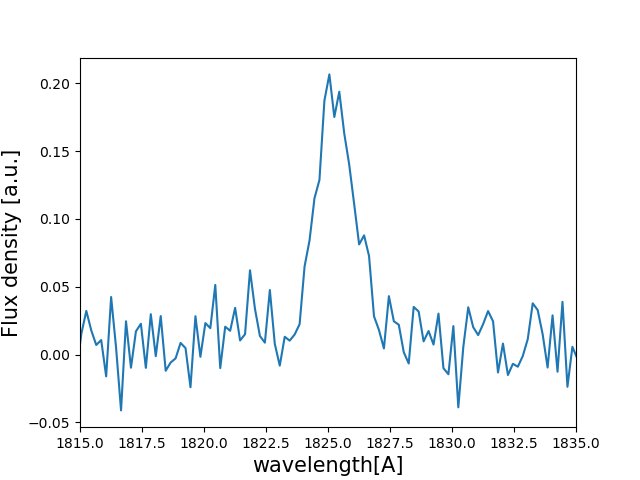
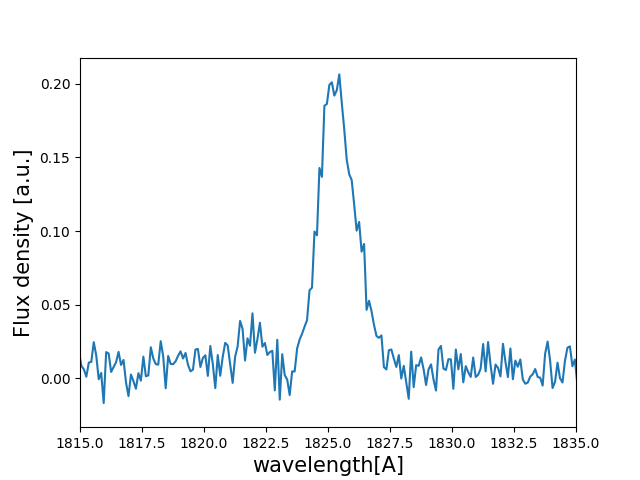
docs

diff --git a/docs/Tutorial_mock.rst b/docs/Tutorial_mock.rst
@@ -10,7 +10,7 @@ Let's start by loading `zELDA` and setting the location of the LyaRT grids:
 
 .. code:: python
 
-          import Lya_zelda as Lya
+          import Lya_zelda_II as Lya
 
           your_grids_location = '/This/Folder/Contains/The/Grids/'
 
@@ -48,9 +48,9 @@ Now let's set the quality of the line profile:
 
 .. code:: python
 
-          PNR_t  = 10.0 # Signal to noise ratio of the maximum of the line.
-          FWHM_t = 0.5  # Full width half maximum diluting the line. Mimics finite resolution. [A]
-          PIX_t  = 0.2  # Wavelength binning of the line. [A]
+          PNR_t  = 20.0 # Signal to noise ratio of the maximum of the line.
+          FWHM_t = 0.2  # Full width half maximum diluting the line. Mimics finite resolution. [A]
+          PIX_t  = 0.1  # Wavelength binning of the line. [A]
 
 Now he have everything, let's compute the line simply by doing:
 
@@ -76,6 +76,41 @@ This should show something like this
 .. image:: figs_and_codes/fig_Tutorial_2_1.png
    :width: 600
 
+Now let's create an IGM transmission curve. This is a simple toy model. For this example we are going to set the IGM transmission bluer than Lyman-alpha to 0.3 and for redder than Lyman-alpha to 1.
+
+.. code:: python
+
+          w_Lya = 1215.68
+          w_IGM_rest_Arr = np.linspace( w_Lya-20.0 , w_Lya+20.0 , 1000 )
+          T_IGM_Arr = np.ones( len( w_IGM_rest_Arr ) )
+
+          T_IGM_Arr[ w_IGM_rest_Arr < w_Lya ] = 0.3
+
+Now let's generate the IGM attenuated line
+
+.. code:: python
+
+    w_IGM_Arr , f_IGM_Arr , _ = Lya.Generate_a_real_line( z_t , V_t, log_N_t, t_t, F_t, log_EW_t, W_t , PNR_t, FWHM_t, PIX_t, LyaRT_Grid, Geometry , T_IGM_Arr=T_IGM    _Arr , w_IGM_Arr=w_IGM_rest_Arr )
+
+and this is how they look
+
+.. code:: python
+
+    f_Arr     = f_Arr     *1. / np.amax( f_Arr     )
+    f_IGM_Arr = f_IGM_Arr *1. / np.amax( f_IGM_Arr )
+
+    plt.plot( w_Arr     , f_Arr     , label='No IGM' )
+    plt.plot( w_IGM_Arr , f_IGM_Arr , label='IGM' )
+    plt.plot( w_IGM_rest_Arr * (1+z_t) , T_IGM_Arr , label='IGM transmission' )
+    plt.legend( loc=0 )
+    plt.xlabel('wavelength[A]' , size=15 )
+    plt.ylabel('Flux density [a.u.]' , size=15 )
+    plt.xlim(1815,1835)
+    plt.show()
+
+.. image:: figs_and_codes/fig_Tutorial_2_2.png
+   :width: 600
+
 Plotting cooler line profiles
 *****************************
 
@@ -83,14 +118,16 @@ If you want a cooler and more 'accurate' plot of the line profile you can use:
 
 .. code:: python
 
-          w_pix_Arr , f_pix_Arr = Lya.plot_a_rebinned_line( w_Arr , f_Arr , PIX_t )
+          w_INT_pix_Arr , f_INT_pix_Arr = Lya.plot_a_rebinned_line( w_Arr , f_Arr , PIX_t )
+          w_IGM_pix_Arr , f_IGM_pix_Arr = Lya.plot_a_rebinned_line( w_IGM_Arr , f_IGM_Arr , PIX_t )
+
           plt.plot( w_pix_Arr , f_pix_Arr )
           plt.xlabel('wavelength[A]' , size=15 )
           plt.ylabel('Flux density [a.u.]' , size=15 )
           plt.xlim(1815,1835)
           plt.show()
 
-.. image:: figs_and_codes/fig_Tutorial_2_2.png
+.. image:: figs_and_codes/fig_Tutorial_2_3.png
    :width: 600
 
 `Lya.plot_a_rebinned_line` is just a function that returns the line profile and wavelength array in a cool way to plot them. You probably shouldn't use for science the output of `Lya.plot_a_rebinned_line`, just for plotting. 

diff --git a/docs/Tutorial_ideal.rst b/docs/Tutorial_ideal.rst
@@ -3,14 +3,14 @@ Tutorial : Computing ideal line profiles
 
 In this tutorial you will, hopefully, learn how to compute ideal line Lyman-alpha line profiles with `zELDA`. The lines computed in this tutorial are ideal becase they don't suffer from the typical artifacts caused by the fact the instruments are not perfect. These lines are in the rest frame of the galaxy.
 
-Computing one ideal line profile
+Computing a ideal line profile
 ********************************
 
 Let's start by loading `zELDA` and setting the location of the LyaRT grids:
 
 .. code:: python
 
-          import Lya_zelda as Lya
+          import Lya_zelda_II as Lya
 
           your_grids_location = '/This/Folder/Contains/The/Grids/'
 
@@ -72,6 +72,42 @@ This should show something like this
 
 .. image:: figs_and_codes/fig_Tutorial_1_1.png
    :width: 600
+
+Computing a ideal line profile with the IGM absorption
+********************************
+
+Now let's create an IGM transmission curve. This is a simple toy model. For this example we are going to set the IGM transmission bluer than Lyman-alpha to 0.3 and for redder than Lyman-alpha to 1.
+
+.. code:: python
+
+          w_Lya = 1215.68
+          T_IGM_Arr = np.ones( len( wavelength_Arr ) )
+
+          T_IGM_Arr[ wavelength_Arr * 1e10 < w_Lya ] = 0.3
+
+Now let's convolve the line profile with the IGM transmission curve
+
+.. code:: python
+
+          IGM_Line_Arr = Line_Arr * T_IGM_Arr
+
+Let's see how it looks
+
+.. code:: python
+
+          plt.plot( wavelength_Arr *1e10 , Line_Arr    *1./np.amax( Line_Arr )  , label='Intrinsic' )
+          plt.plot( wavelength_Arr *1e10 , IGM_Line_Arr*1./np.amax( Line_Arr )  , label='IGM Convolved' )
+          plt.plot( wavelength_Arr *1e10 , T_IGM_Arr , label='IGM transmission' )
+          plt.xlabel('wavelength[A]' , size=15 )
+          plt.ylabel('Flux density [a.u.]' , size=15 )
+          plt.legend(loc=0)
+          plt.show()
+
+It should look something like this
+
+.. image:: figs_and_codes/fig_Tutorial_1_IGM.png
+   :width: 600
+
 
 
 Computing many ideal line profile

diff --git a/docs/Tutorial_NN_IGM.rst b/docs/Tutorial_NN_IGM.rst
@@ -37,7 +37,7 @@ Let's start by loading `zELDA` creating a mock line profile that we will fit lat
 
 where `/This/Folder/Contains/The/Grids/` is the place where you store the LyaRT data grids, as shown in the installation section. 
 
-Now let's create an IGM transmission curve. For this example we are going to set the IGM transmission bluer than Lyman-alpha to 0 and for redder than Lyman-alpha to 1.
+Now let's create an IGM transmission curve. This is a simple toy model. For this example we are going to set the IGM transmission bluer than Lyman-alpha to 0 and for redder than Lyman-alpha to 1.
 
 .. code:: python
 
@@ -117,7 +117,7 @@ The function `Fit_Observed_line_with_IGM` is used to fit 1 line and it loads the
 
           RESULTS = Lya.Fit_Observed_line_with_IGM( w_IGM_Arr , f_IGM_Arr , s_IGM_Arr , PIX_t , FWHM_t , MODE='IGM-z' , N_ITER=N_ITER , DIC_loaded_models=DIC_loaded_models , my_PCA_model=my_PCA_model )
 
-`RESULTS` is a python dictionaty that stores all the information of the fit. The percentile 50 is stores as... `x_Q50`, the perntile 16 as `x_Q16`, etc, where `x` is a fitted varible, like redshift, etc. Therefore, the fitted outflow values are
+`RESULTS` is a python dictionaty that stores all the information of the fit. The percentile 50 is stored as... `x_Q50`, the percentile 16 as `x_Q16`, etc, where `x` is a fitted varible, like redshift, etc. Therefore, the fitted outflow values are
 
 .. code:: python
 

diff --git a/docs/Tutorial_DNN.rst b/docs/Tutorial_DNN.rst
@@ -10,7 +10,7 @@ Let's start by loading `zELDA` creating a mock line profile that we will fit lat
 
 .. code:: python
 
-          import Lya_zelda as Lya
+          import Lya_zelda_II as Lya
           your_grids_location = '/This/Folder/Contains/The/Grids/'
           Lya.funcs.Data_location = your_grids_location
 

diff --git a/docs/Tutorial_MCMC.rst b/docs/Tutorial_MCMC.rst
@@ -10,7 +10,7 @@ Let's start by loading `zELDA` creating a mock line profile that we will fit lat
 
 .. code:: python
 
-          import Lya_zelda as Lya
+          import Lya_zelda_II as Lya
           your_grids_location = '/This/Folder/Contains/The/Grids/'
           Lya.funcs.Data_location = your_grids_location
 

diff --git a/docs/Tutorial_fesc.rst b/docs/Tutorial_fesc.rst
@@ -12,7 +12,7 @@ However, `zELDA` implements several gas geometries and is optimized to obtain la
 
 .. code:: python
 
-          import Lya_zelda as Lya
+          import Lya_zelda_II as Lya
           your_grids_location = '/This/Folder/Contains/The/Grids/'
           Lya.funcs.Data_location = your_grids_location
 

diff --git a/docs/Tutorial_Train.rst b/docs/Tutorial_Train.rst
@@ -11,7 +11,7 @@ Let's start by loading `zELDA` grid of lines:
 .. code:: python
 
           import numpy as np
-          import Lya_zelda as Lya
+          import Lya_zelda_II as Lya
           import pickle
           from sklearn.neural_network import MLPRegressor
 
